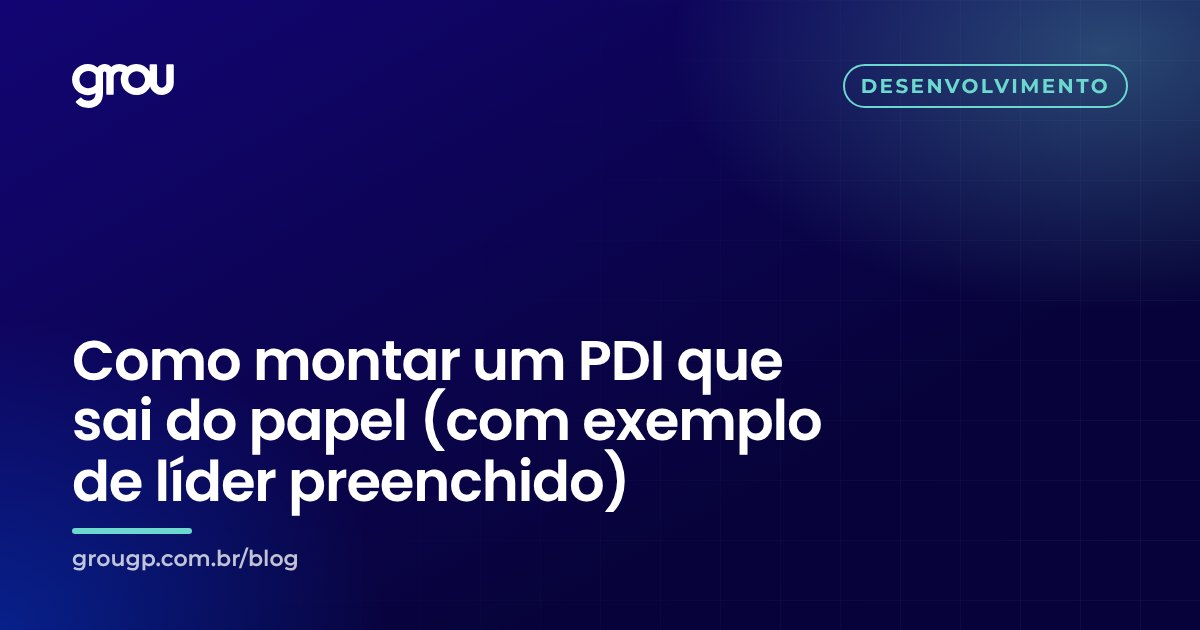
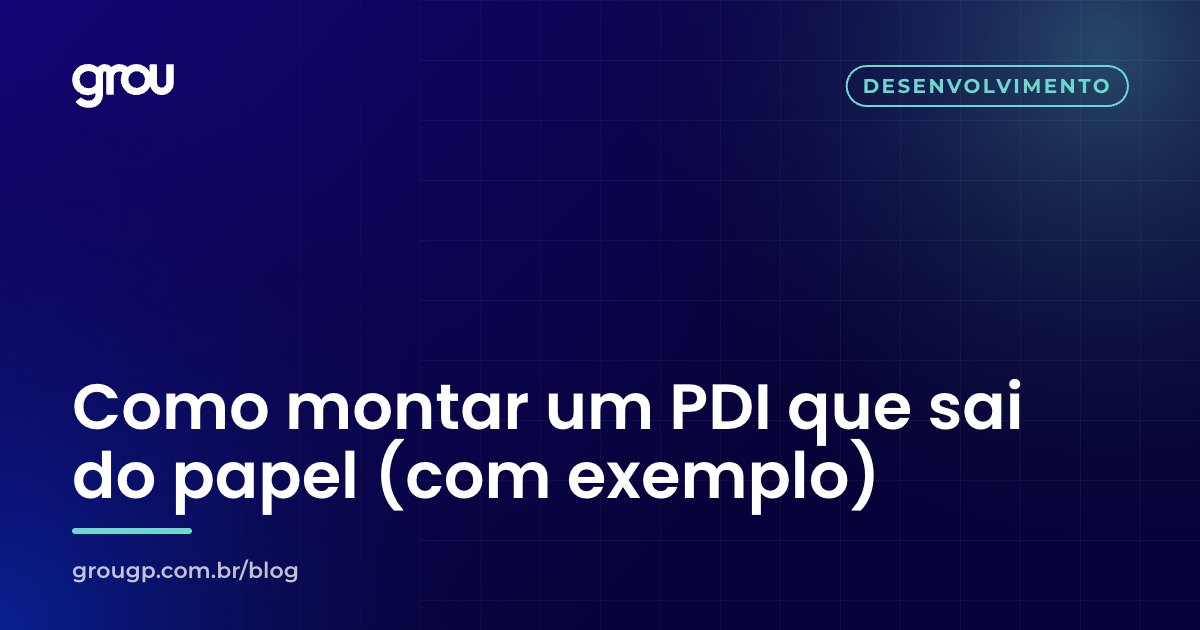
Blog (painel): publica Como montar um PDI que sai do papel (com exemplo)
Feito no painel do blog por talita.sigales@grougp.com.br

Changed region(s): [[0.0617, 0.5429, 0.8633, 0.8143], [0.6783, 0.0905, 0.925, 0.181], [0.0617, 0.8746, 0.2467, 0.9349]]

diff --git a/conteudo-blog/posts/2026-11-25-como-montar-um-pdi.md b/conteudo-blog/posts/2026-11-25-como-montar-um-pdi.md
@@ -1,9 +1,10 @@
 ---
-titulo: Como montar um PDI que sai do papel (com exemplo de líder preenchido)
+titulo: Como montar um PDI que sai do papel (com exemplo)
 titulo_seo: Como montar um PDI que sai do papel (com exemplo)
 descricao: Aprenda como montar um PDI em 6 passos, com exemplo preenchido de um líder, critério de evidência e um ritual mensal de 20 minutos para ele não morrer na gaveta.
 slug: como-montar-um-pdi
 data: 2026-11-25
+atualizado: 2026-11-25
 categoria: Desenvolvimento
 palavra_chave: como montar um PDI
 tags: [PDI, desenvolvimento de lideranças, feedback, 70-20-10]
